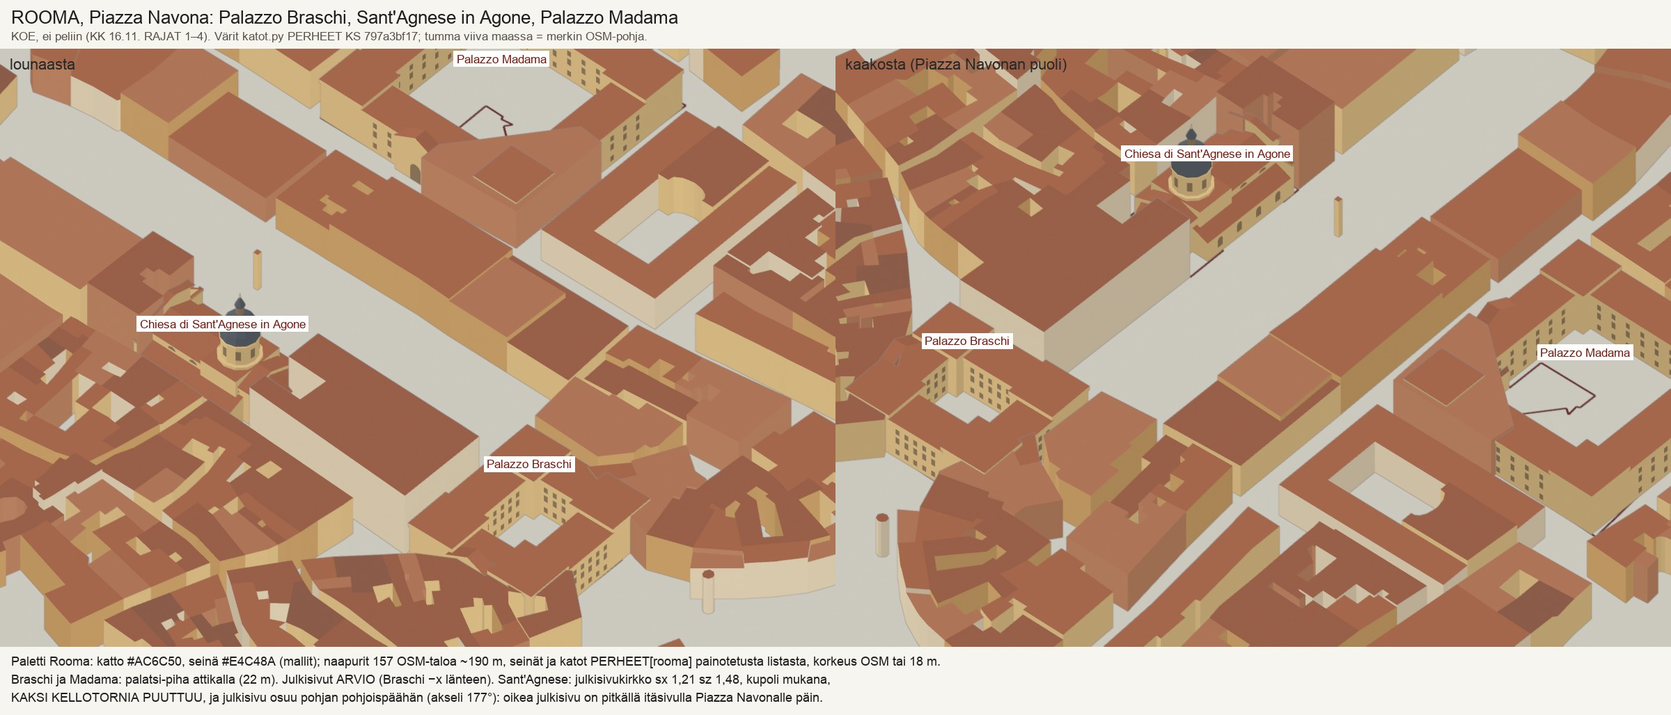
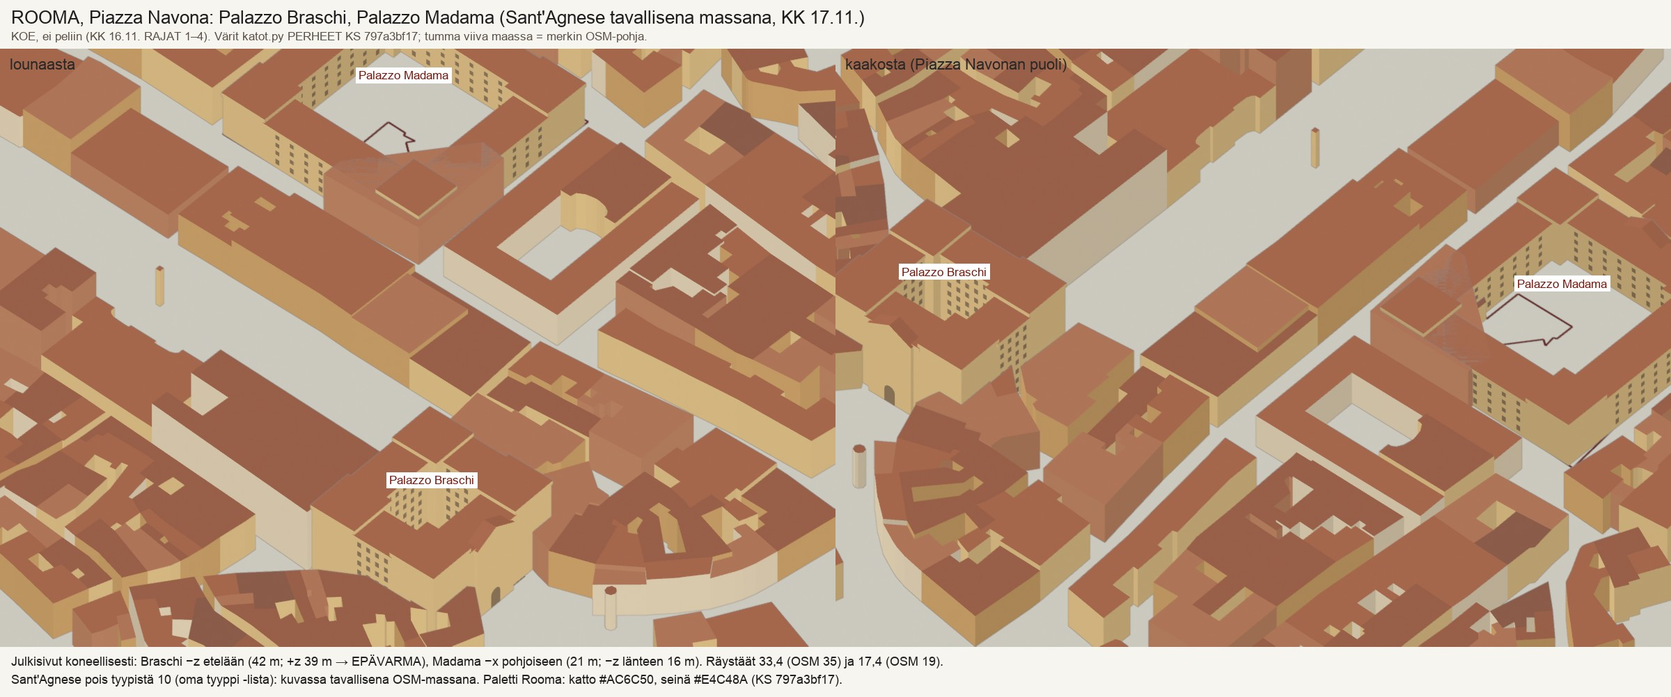
VS: julkisivu koneellisesti, palatsin räystäs OSM:stä, Sant'Agnese oma tyyppi (KOE Rooma/Wien, KK 17.11.; EI JUNAAN)
tyypitys.py: avoimin sivu kadun ylittävillä säteillä (muut.json.gz kadut, vesi esteenä), epävarmat listaan;
palatsin räystäs OSM-korkeudesta, ei naapureiden mediaanin alle (MK01 p3); OMA_TYYPPI: Sant'Agnese, Ambrogio e Carlo.
Tyyppimallit.cs: TyyppiPalatsiPiha raystas-parametri (16 m tavulleen ennallaan). Kuvat Freyung, Sant'Andrea, Navona.

diff --git a/tools/tyyppimallit/tyypitys.py b/tools/tyyppimallit/tyypitys.py
@@ -31,6 +31,11 @@ PALATSI_EI_B = {'sports_centre', 'dormitory', 'stadium'}
 # tyypitetään vain kirkot. Säännön löytämät asemat ja palatsit, jotka eivät ole listalla, ovat "ei sovi". Lista voi myös nostaa ehdokkaaksi rakennuksen,
 # jota sääntö ei löydä (Institut = building=public, Hôtel de Ville = civic). OSM-otteissa ei ole kupoli- eikä hallitietoa. Avain OSM-tunniste.
 # Tila: KUPOLIT hyväksytty (KK 23.25); ASEMAT ja PALATSIT EHDOTUS (VS 14.11. klo 23.4x, ehdotus-listat-pariisi.md) → odottaa KK:n hyväksyntää.
+# ODOTTAA OMAA TYYPPIÄ (KK 17.11. kohta 2): siihen asti tavallinen massa (ei_sovi → perustalo).
+OMA_TYYPPI = {
+    'way/52333460': "oma tyyppi: leveä julkisivu pitkällä sivulla + kaksi kellotornia + kupoli (Sant'Agnese in Agone; KK 17.11. kohta 2)",
+    'relation/3078796': 'oma tyyppi: venytys z 2,67 julkisivukirkolle (Santi Ambrogio e Carlo al Corso; KK 17.11. kohta 2)',
+}
 NIMILISTAT = {
     'pariisi': {
         # KUPOLIT (hyväksytty KK 23.25)
@@ -101,9 +106,9 @@ NIMILISTAT = {
         # JULKISIVUKIRKOT (KK 16.11. kohta 1): barokkijulkisivu + kupoli risteyksessä, pitkä laiva. LUONNOS: tunnetut kupolikirkot, Commons-tarkistus ennen vientiä.
         'way/25610962': ('kirkko', 'julkisivu', 'Chiesa del Gesù', {'kupoli': 1, 'koe': True}),
         'way/25625603': ('kirkko', 'julkisivu', "Sant'Andrea della Valle", {'kupoli': 1, 'koe': True}),
-        'way/52333460': ('kirkko', 'julkisivu', "Sant'Agnese in Agone", {'kupoli': 1, 'koe': True}),   # julkisivun kaksi kellotornia puuttuvat mallista
+        'way/52333460': ('kirkko', 'julkisivu', "Sant'Agnese in Agone", {'ei_sovi': OMA_TYYPPI['way/52333460']}),
         'way/117744827': ('kirkko', 'julkisivu', 'San Carlo ai Catinari', {'kupoli': 1, 'koe': True}),
-        'relation/3078796': ('kirkko', 'julkisivu', 'Santi Ambrogio e Carlo al Corso', {'kupoli': 1, 'koe': True}),
+        'relation/3078796': ('kirkko', 'julkisivu', 'Santi Ambrogio e Carlo al Corso', {'ei_sovi': OMA_TYYPPI['relation/3078796']}),
         'way/127942183': ('kirkko', 'julkisivu', 'San Giovanni dei Fiorentini', {'kupoli': 1, 'koe': True}),
         'way/29181216': ('kirkko', 'julkisivu', 'Chiesa Nuova (Santa Maria in Vallicella)', {'kupoli': 1, 'koe': True}),
         'way/50884075': ('kirkko', 'julkisivu', 'Santa Maria della Pace', {'kupoli': 1, 'koe': True}),
@@ -326,6 +331,130 @@ def sivun_suunta(atsi, sivu):
     return (atsi + {'+x': 0, '-x': 180, '+z': -90, '-z': 90}[sivu]) % 360
 
 
+# JULKISIVUN SUUNTA KONEELLISESTI (KK 17.11. kohta 3; KOE Rooma ja Wien): pääjulkisivu on se mallin sivu, jonka edessä on eniten avointa tilaa
+# (aukio tai levein katu). Avoimuus = sivun keskimmäiseltä 80 %:lta 4 m:n välein ulos ammuttujen säteiden vapaa matka muihin OSM-taloihin
+# (katkaistu AVOIN['max'] m:iin), keskiarvo. Epävarma: toiseksi avoimin ≥ AVOIN['tasan'] × avoimin, tai avoimin alle AVOIN['ahdas'] m.
+JULKISIVU_KONEELLA = {'rooma', 'wien'}
+AVOIN = {'max': 120.0, 'vali': 4.0, 'tasan': 0.8, 'ahdas': 15.0, 'pitka_sivu': 1.25, 'katu_max': 60.0}
+# Säde lasketaan vain, jos se ylittää yleisen kadun tai aukion ennen estettä (muut.json.gz: highway KADUT, nimetty service/footway, area=yes,
+# place=square, area:highway); vesi on este (joki ei ole julkisivun puoli: San Giovanni dei Fiorentini). Puutarha ei ole este, mutta sen puolelta
+# ei yleensä ylitetä katua (Palazzo Corsini).
+KADUT = {'primary', 'secondary', 'tertiary', 'residential', 'unclassified', 'living_street', 'pedestrian', 'trunk',
+         'primary_link', 'secondary_link', 'tertiary_link', 'trunk_link'}
+
+
+def avoimuuden_aineisto(ote, P):
+    """(kadut [(oid, [renkaat/linjat])], esteet [(oid, renkaat)]) ote/muut.json.gz:stä paikallisiin metreihin."""
+    m = json.load(gzip.open(os.path.join(ote, 'muut.json.gz')))
+    kadut, esteet = [], []
+    for w in m['ways'] + m.get('rel', []):
+        t = w.get('t', {})
+        vesi = t.get('natural') == 'water' or t.get('waterway') == 'riverbank'
+        katu = (t.get('highway') in KADUT or (t.get('highway') in ('service', 'footway') and ('name' in t or t.get('area') == 'yes'))
+                or t.get('place') == 'square' or 'area:highway' in t)
+        if not (vesi or katu): continue
+        rr = [w['p']] if 'p' in w else (renkaat_rel(w) if vesi else [j['p'] for j in w.get('j', []) if j.get('p')])
+        if vesi and katu: katu = False
+        q = [[P(la, lo) for la, lo in r_] for r_ in rr if len(r_) >= 2]
+        if not q: continue
+        (esteet if vesi else kadut).append(('~' + w['osm'], q))
+    return kadut, esteet
+
+
+class Esteet:
+    """Muiden talojen särmät 25 m:n ruudukossa (säteiden osumat)."""
+    def __init__(self, talot, ruutu=25.0, korkeudet=None):
+        self.r = ruutu; self.ruudut = {}; self.korkeudet = korkeudet or {}
+        for oid, renkaat in talot:
+            for q in renkaat:
+                for i in range(len(q) - 1):
+                    (ax, ay), (bx, by) = q[i], q[i + 1]
+                    for gx in range(int(math.floor(min(ax, bx) / ruutu)), int(math.floor(max(ax, bx) / ruutu)) + 1):
+                        for gy in range(int(math.floor(min(ay, by) / ruutu)), int(math.floor(max(ay, by) / ruutu)) + 1):
+                            self.ruudut.setdefault((gx, gy), []).append((oid, ax, ay, bx, by))
+
+    def lahella(self, x, y, sade, oma):
+        g0x, g1x = int(math.floor((x - sade) / self.r)), int(math.floor((x + sade) / self.r))
+        g0y, g1y = int(math.floor((y - sade) / self.r)), int(math.floor((y + sade) / self.r))
+        nahty = set(); ulos = []
+        for gx in range(g0x, g1x + 1):
+            for gy in range(g0y, g1y + 1):
+                for e in self.ruudut.get((gx, gy), ()):
+                    if e[0] != oma and id(e) not in nahty: nahty.add(id(e)); ulos.append(e[1:])
+        return ulos
+
+
+    def naapurikorkeudet(self, x, y, sade, oma):
+        """Korkeustagilliset talot, joiden jokin särmän pää on säteellä."""
+        g0x, g1x = int(math.floor((x - sade) / self.r)), int(math.floor((x + sade) / self.r))
+        g0y, g1y = int(math.floor((y - sade) / self.r)), int(math.floor((y + sade) / self.r))
+        oidit = set()
+        for gx in range(g0x, g1x + 1):
+            for gy in range(g0y, g1y + 1):
+                for o, ax, ay, bx, by in self.ruudut.get((gx, gy), ()):
+                    if o != oma and o in self.korkeudet and min(math.hypot(ax - x, ay - y), math.hypot(bx - x, by - y)) <= sade: oidit.add(o)
+        return sorted(self.korkeudet[o] for o in oidit)
+
+
+# PALATSIN KORKEUS (KK 17.11. kohta 1; KOE): räystäs OSM-korkeudesta (tagi), malli ei jää lähinaapureiden (pohjan puolikas + 20 m) tagillisten
+# korkeuksien mediaanin alle. Korkeus = attikan yläpinta (räystäs + 1,6) tai mansardin harja (räystäs + 7). Ilman lukuja oletus 16 m.
+PALATSI_KORKEUS = {'naapurisade_lisa': 20.0, 'attika': 1.6, 'mansardi': 7.0, 'min': 8.0, 'max': 45.0}
+
+
+def palatsin_raystas(h, naapurit, katto):
+    import statistics
+    med = statistics.median(naapurit) if naapurit else None
+    lisa = PALATSI_KORKEUS['attika' if katto == 'attika' else 'mansardi']
+    ry = h - lisa if h else 16.0   # tagi = mallin korkeus; ilman tagia oletusräystäs 16 m
+    if med: ry = max(ry, med - lisa)   # ei naapureiden mediaanin alle
+    return round(min(PALATSI_KORKEUS['max'], max(PALATSI_KORKEUS['min'], ry)), 1), med
+
+
+def sade_matka(px, py, dx, dy, sarmat, maks):
+    """Säteen (px, py) + t (dx, dy) ensimmäinen osuma särmiin (t ≥ 0), enintään maks."""
+    paras = maks
+    for ax, ay, bx, by in sarmat:
+        ex, ey = bx - ax, by - ay
+        den = dx * ey - dy * ex
+        if abs(den) < 1e-9: continue
+        wx, wy = ax - px, ay - py
+        t = (wx * ey - wy * ex) / den; u = (wx * dy - wy * dx) / den
+        if 0.0 <= t < paras and 0.0 <= u <= 1.0: paras = t
+    return paras
+
+
+def sivujen_avoimuus(c, atsi, pit, lev, esteet, oma, kadut=None):
+    """{sivu: keskimääräinen vapaa matka m} mallin sivuille ±x ±z (suorakaide c, atsi, pit × lev). kadut = Esteet katuviivoista: säde lasketaan
+    vain, jos se ylittää kadun ennen estettä (enintään katu_max m), muuten 0."""
+    sarmat = esteet.lahella(c[0], c[1], max(pit, lev) / 2 + AVOIN['max'] + 5, oma)
+    katusarmat = kadut.lahella(c[0], c[1], max(pit, lev) / 2 + AVOIN['katu_max'] + 5, None) if kadut else None
+    tulos = {}
+    for sivu in ('+x', '-x', '+z', '-z'):
+        d = math.radians(sivun_suunta(atsi, sivu)); dx, dy = math.sin(d), math.cos(d)
+        pituus = lev if 'x' in sivu else pit
+        n = max(3, int(0.8 * pituus / AVOIN['vali']))
+        mat = []
+        for i in range(n):
+            s_ = (-0.4 + 0.8 * (i + 0.5) / n) * pituus
+            lx, lz = ((pit / 2 if sivu == '+x' else -pit / 2), s_) if 'x' in sivu else (s_, (lev / 2 if sivu == '+z' else -lev / 2))
+            ex, ey = mallista_maailmaan(atsi, lx, lz)
+            t_ = sade_matka(c[0] + ex, c[1] + ey, dx, dy, sarmat, AVOIN['max'])
+            if katusarmat is not None and sade_matka(c[0] + ex, c[1] + ey, dx, dy, katusarmat, min(t_, AVOIN['katu_max'])) >= min(t_, AVOIN['katu_max']): t_ = 0.0
+            mat.append(t_)
+        tulos[sivu] = round(sum(mat) / len(mat), 1)
+    return tulos
+
+
+def julkisivu_koneella(avo, sallitut=('+x', '-x', '+z', '-z')):
+    """(sivu, epävarmuuden syy tai None) avoimuuksista; sallitut = sivut, joille malli osaa julkisivun."""
+    jarj = sorted(sallitut, key=lambda s_: -avo[s_])
+    paras, toinen = jarj[0], jarj[1]
+    syy = None
+    if avo[paras] < AVOIN['ahdas']: syy = f'kaikki sivut ahtaita (avoimin {paras} {avo[paras]:.0f} m)'
+    elif avo[toinen] >= AVOIN['tasan'] * avo[paras]: syy = f'kaksi lähes yhtä avointa ({paras} {avo[paras]:.0f} m, {toinen} {avo[toinen]:.0f} m)'
+    return paras, syy
+
+
 def palatsin_sovitus(ulko, sisa, atsi0, julkisivu):
     """Palatsin suorakaide, piha, avoin sivu ja pääjulkisivun sivu (KK 14.11. 23.40 D). ulko/sisa = OSM-ulko- ja sisärenkaat paikallisissa metreissä.
     1) Akseli seinien vallitsevasta suunnasta (särmien pituuspainotettu suunta mod 90°), ei pienimmästä suorakaiteesta: vino kulma (Élysée) ei käännä mallia.
@@ -522,6 +651,17 @@ def main(a):
     koodiosumat = []   # koodimallit, jotka eivät ole IKONIT-listalla mutta leikkaavat ehdokkaan (raportoidaan, ei ohiteta)
     lista = NIMILISTAT.get(kaupunki, {})
     merkit, poistot, ohit = [], [], []
+    esteet = kadut = None
+    if kaupunki in JULKISIVU_KONEELLA:
+        talot, korkeudet = [], {}
+        for w_ in d['ways'] + d.get('rel', []):
+            if not w_.get('t', {}).get('building'): continue
+            rr = [w_['p']] if 'p' in w_ else renkaat_rel(w_)
+            if rr: talot.append((w_['osm'], [[P(la, lo) for la, lo in q] for q in rr]))
+            hk = korkeus(w_['t'])[0]
+            if hk and hk >= 6.0: korkeudet[w_['osm']] = hk   # alle 6 m (muurit, kioskit) ei naapurikorkeudeksi
+        kadut_, vesi_ = avoimuuden_aineisto(ote, P)
+        esteet = Esteet(talot + vesi_, korkeudet=korkeudet); kadut = Esteet(kadut_)
     for w in d['ways'] + d.get('rel', []):
         t = w.get('t', {})
         if not t.get('building'): continue
@@ -579,6 +719,15 @@ def main(a):
             sisat = [[P(la, lo) for la, lo in r] for r in renkaat_sisa(w)] if 'j' in w else []
             pp, syy_p, (c, atsi, pit, lev) = palatsin_sovitus(qs, sisat, atsi, parametrit.get('julkisivu'))
             parametrit['julkisivu_suunta'] = parametrit.pop('julkisivu', None); parametrit.update(pp)
+            if esteet is not None:   # KK 17.11. kohta 3: julkisivu koneellisesti, ei arviota
+                avo = sivujen_avoimuus(c, atsi, pit, lev, esteet, oid, kadut)
+                sivu, epa = julkisivu_koneella(avo)
+                parametrit['julkisivu_kasi'] = pp['julkisivu']; parametrit['julkisivu'] = sivu
+                parametrit['avoimuus'] = avo; parametrit['julkisivu_epavarma'] = epa; parametrit.pop('arvio', None)
+                ry, med = palatsin_raystas(h, esteet.naapurikorkeudet(c[0], c[1], max(pit, lev) / 2 + PALATSI_KORKEUS['naapurisade_lisa'], oid), parametrit.get('katto'))
+                parametrit['raystas'] = ry; parametrit['naapurit_mediaani'] = med
+                if parametrit.get('avoin_sivu') and parametrit['avoin_sivu'] != sivu:
+                    parametrit['huom'] = f"avoin sivu {parametrit['avoin_sivu']} ≠ julkisivu {sivu}"
             if syy is None and syy_p: syy = syy_p
         if tyyppi == 'asema' and tyyppi_koko_ok(tyyppi, koko):
             if 'halleja' not in parametrit: parametrit['halleja'] = asema_hallit(lev)
@@ -627,6 +776,16 @@ def main(a):
                 syy = f"venytys (x {sx:.2f}, z {sz:.2f}; raja {SOVITUS['venytys_min']}–{vmax})"
         if tyyppi == 'kirkko' and syy is None and pit < SOVITUS['kirkko_min_pituus'] and not saanto.startswith(('nimilista', 'käsikorjaus')):
             syy = f"alle {SOVITUS['kirkko_min_pituus']:.0f} m (pituus {pit:.1f})"
+        if esteet is not None and (tyyppi, koko) == ('kirkko', 'julkisivu') and syy is None:
+            # Julkisivukirkko (KK 17.11. kohta 3): julkisivu kapeaan päähän (malli osaa vain sen); avoimempi pää. Jos pitkä sivu on selvästi avoimin,
+            # julkisivu on todennäköisesti pitkällä sivulla (Sant'Agnese) → epävarma KK:lle.
+            avo = sivujen_avoimuus(c, atsi, pit, lev, esteet, oid, kadut)
+            paa, epa = julkisivu_koneella(avo, ('+x', '-x'))
+            pitka = max(('+z', '-z'), key=lambda s_: avo[s_])
+            if avo[pitka] > AVOIN['pitka_sivu'] * avo[paa]: epa = f'pitkä sivu {pitka} avoimin ({avo[pitka]:.0f} m > pää {avo[paa]:.0f} m)' + (f'; {epa}' if epa else '')
+            ux_, uy_ = math.sin(math.radians(atsi)), math.cos(math.radians(atsi))
+            lansi = (ux_, uy_) if paa == '+x' else (-ux_, -uy_)   # lansipaa = julkisivun pää (vie.akseli kääntää sen −x:ksi)
+            parametrit['avoimuus'] = avo; parametrit['julkisivu_paa'] = paa; parametrit['julkisivu_epavarma'] = epa
         la_c = meta['lat'] + c[1] / 111320.0; lo_c = meta['lon'] + c[0] / (111320.0 * math.cos(math.radians(meta['lat'])))
         merkit.append({
             'osm': oid, 'tyyppi': tyyppi, 'koko': koko, 'saanto': saanto, 'nimi': nimi, 'wikidata': t.get('wikidata'),

diff --git a/tools/tyyppimallit/oma/Tyyppimallit.cs b/tools/tyyppimallit/oma/Tyyppimallit.cs
@@ -694,13 +694,13 @@ namespace Matkakirja
             return r.Valmis();
         }
 
-        public static Verkko TyyppiPalatsiPiha(float pituus, float leveys, string julkisivu, string avoin, float siipi = 16f, string katto = "mansardi", int seina = 0)
+        public static Verkko TyyppiPalatsiPiha(float pituus, float leveys, string julkisivu, string avoin, float siipi = 16f, string katto = "mansardi", int seina = 0, float raystas = 16f)
         {
             int n = julkisivu == "+x" ? 1 : julkisivu == "-z" ? 2 : julkisivu == "-x" ? 3 : 0;
             string Takaisin(string s) => s == "+x" ? "+z" : s == "-z" ? "+x" : s == "-x" ? "-z" : s == "+z" ? "-x" : s;   // kierron käänteinen
             string a = avoin ?? "";
             for (int i = 0; i < n; i++) a = Takaisin(a);
-            var v = (n % 2 == 1) ? TyyppiPalatsiPiha(leveys, pituus, siipi, a, katto, seina) : TyyppiPalatsiPiha(pituus, leveys, siipi, a, katto, seina);
+            var v = (n % 2 == 1) ? TyyppiPalatsiPiha(leveys, pituus, siipi, a, katto, seina, raystas) : TyyppiPalatsiPiha(pituus, leveys, siipi, a, katto, seina, raystas);
             return n == 0 ? v : TyKierra(v, n);
         }
 
@@ -715,13 +715,14 @@ namespace Matkakirja
         /// <summary>katto "mansardi" (Pariisi) | "attika" (KK 15.11. 01.13: Lontoo ei saa näyttää Pariisilta): attikalla siivet ja paviljongit päättyvät
         /// ulkonevaan räystäslistaan ja kaiteeseen, katto tasainen kaiteen takana. Keskirisaliitin kolmiopääty molemmissa.
         /// seina = seinän sRGB 0xRRGGBB (0 = TyKivi; Lontoo: Portland-kivi 0xE4DCCA, punatiili 0xAC7862).</summary>
-        public static Verkko TyyppiPalatsiPiha(float pituus = 120f, float leveys = 90f, float siipi = 16f, string avoin = "", string katto = "mansardi", int seina = 0)
+        /// raystas = siipien räystäs m (KK 17.11. KOE: MK01 p3 f32, 0 = 16 m; korkeus OSM:stä, ei naapureiden mediaanin alle).
+        public static Verkko TyyppiPalatsiPiha(float pituus = 120f, float leveys = 90f, float siipi = 16f, string avoin = "", string katto = "mansardi", int seina = 0, float raystas = 16f)
         {
             var r = TyRakentaja();
             var kivi = seina > 0 ? Vari.H(seina) : TyKivi;   // seinä rivikohtaisesti (KK 15.11. 01.24; KS:n paletti), 0 = kaupungin seinä (paletti) tai oletuskivi
             var aukko = seina > 0 ? TyAukkoSeinasta(kivi) : TyAukko;   // ikkuna talojen tapaan seinästä (KK 09.00 b)
             bool attika = katto == "attika";
-            float x0 = -pituus * 0.5f, x1 = pituus * 0.5f, z0 = -leveys * 0.5f, z1 = leveys * 0.5f, y = 16f, pv = siipi + 4f;
+            float x0 = -pituus * 0.5f, x1 = pituus * 0.5f, z0 = -leveys * 0.5f, z1 = leveys * 0.5f, y = raystas, pv = siipi + 4f;
             bool piha = Math.Min(pituus, leveys) >= 2.6f * siipi;
             (float, float, float)[] Mansardi(float sy, float d) => new[] { (0f, 0f, sy), (1.6f, 1.6f, sy + 5f), (Math.Min(d * 0.32f, 6f), d * 0.32f, sy + 7f) };
             void Siipi(float a0, float a1, float b0, float b1, bool pitkinX)
@@ -771,9 +772,17 @@ namespace Matkakirja
             float iv = Math.Max(4.2f, julkisivu / 60f);
             foreach (var (ax, az, bx, bz) in seinat)
             {
-                TyIkkunat(r, ax, az, bx, bz, iv, 1.8f, 7.5f, 10.5f, false, aukko);
-                TyIkkunat(r, ax, az, bx, bz, iv, 1.8f, 12f, 14.5f, false, aukko);
+                if (Math.Abs(y - 16f) < 0.01f)   // ennallaan tavulleen
+                {
+                    TyIkkunat(r, ax, az, bx, bz, iv, 1.8f, 7.5f, 10.5f, false, aukko);
+                    TyIkkunat(r, ax, az, bx, bz, iv, 1.8f, 12f, 14.5f, false, aukko);
+                    TyIkkunat(r, ax, az, bx, bz, iv, 1.8f, 2f, 4.5f, false, aukko);
+                    continue;
+                }
                 TyIkkunat(r, ax, az, bx, bz, iv, 1.8f, 2f, 4.5f, false, aukko);
+                // Muu räystäs (KK 17.11. KOE): pohjakerros kuten ennen, yläkerrokset tasajaolla ~4,6 m (ikkuna 0,3–0,8 kerroksesta).
+                int nk = Math.Max(1, (int)Math.Round((y - 5.5f) / 4.6f)); float kh = (y - 5.5f) / nk;
+                for (int k = 0; k < nk; k++) TyIkkunat(r, ax, az, bx, bz, iv, 1.8f, 5.5f + k * kh + 0.3f * kh, 5.5f + k * kh + 0.8f * kh, false, aukko);
             }
             // Keskirisaliitti pääjulkisivulla (+z) ja porttiholvi; jos +z on avoin (U-palatsin kunniapiha), risaliitti on pihan puolella päärakennuksessa (−z-siipi).
             if (avoin == "+z") z1 = z0 + siipi;
@@ -865,7 +874,7 @@ namespace Matkakirja
                 case 3: return TyyppiKirkkoSuuri();
                 case 4: return TyyppiKupolikirkko(a != 0);
                 case 5: return TyyppiPylvastemppeli(p0, p1, a > 0 ? a : 8, b != 0, c == 1);
-                case 6: return TyyppiPalatsiPiha(p0, p1, a > 0 ? Sivu(a) : "+z", Sivu(b), 16f, c == 1 ? "attika" : "mansardi", p2 > 0f && p2 <= 0xFFFFFF ? (int)p2 : 0);
+                case 6: { float ry = BitConverter.Int32BitsToSingle((int)p3Bitit); return TyyppiPalatsiPiha(p0, p1, a > 0 ? Sivu(a) : "+z", Sivu(b), 16f, c == 1 ? "attika" : "mansardi", p2 > 0f && p2 <= 0xFFFFFF ? (int)p2 : 0, ry >= 8f && ry <= 45f ? ry : 16f); }
                 case 7: return MalliAsema(a, b, c, p0, p1, p2 > 0f && p2 <= 0xFFFFFF ? (int)p2 : 0, p3Bitit, varattu, jatko);
                 case 8: return TyyppiKirkkoLevea(paikka[Math.Min(a, 1)], Math.Max(1, b), huippu[Math.Min(c, 2)]);
                 case 9: return TyyppiKirkkoBasilika(paikka[Math.Min(a, 1)], Math.Max(1, b), huippu[Math.Min(c, 2)]);

diff --git a/tools/tyyppimallit/kortteli-kuva.py b/tools/tyyppimallit/kortteli-kuva.py
@@ -10,7 +10,7 @@ Naapurit: otteet-63/<k>/osm.json.gz building-tagilliset ~R m säteellä, ei merk
 tai 18 m; seinä ja tasakatto katot.py PERHEET[k] painotetusta listasta (osm-id:n tiivisteellä, toistettava). Väriähde VS_KATOT_KANSIO (oletus KS 797a3bf17).
 Merkin OSM-pohja piirretään maahan tummana viivana (vertailu: miten malli osuu pohjaan).
 """
-import sys, os, json, math, gzip, hashlib, subprocess
+import sys, os, json, math, gzip, hashlib, subprocess, struct
 
 TY = os.path.dirname(os.path.abspath(__file__))
 OTTEET = '/Users/Shared/Claude/proto-3d/_tyo/karttaseppa/tyokalu-1/otteet-63'
@@ -22,12 +22,15 @@ _l = (-0.5, -0.45, 0.75); _n = math.sqrt(sum(c * c for c in _l)); VALO = tuple(c
 
 # Näkymä: (nimi, atsimuutti mistä kamera katsoo, korotus °, ortokoko m, keskipisteen siirto (itä, pohjoinen) m)
 KORTTELIT = {
-    'rooma-navona': dict(kaupunki='rooma', otsikko='ROOMA, Piazza Navona: Palazzo Braschi, Sant\'Agnese in Agone, Palazzo Madama',
-                         merkit=['relation/1709796', 'way/52333460', 'relation/76432'], sade=190,
+    'rooma-navona': dict(kaupunki='rooma', otsikko="ROOMA, Piazza Navona: Palazzo Braschi, Palazzo Madama (Sant'Agnese tavallisena massana, KK 17.11.)",
+                         merkit=['relation/1709796', 'relation/76432'], sade=190,
                          nakymat=[('lounaasta', 225, 45, 300, (0, 0)), ('kaakosta (Piazza Navonan puoli)', 135, 45, 300, (0, 0))]),
     'wien-freyung': dict(kaupunki='wien', otsikko='WIEN, Freyung: Palais Kinsky, Palais Harrach',
                          merkit=['relation/2458835', 'relation/1527363'], sade=170,
                          nakymat=[('pohjoisesta (Freyungin puoli)', 15, 45, 210, (0, 0)), ('lounaasta', 225, 45, 210, (0, 0))]),
+    'rooma-santandrea': dict(kaupunki='rooma', otsikko="ROOMA, Corso Vittorio Emanuele: Sant'Andrea della Valle (julkisivukirkko, julkisivu koneellisesti)",
+                             merkit=['way/25625603'], sade=170,
+                             nakymat=[('pohjoisesta (julkisivun puoli)', 345, 40, 200, (0, 0)), ('lounaasta', 225, 45, 200, (0, 0))]),
     'gesu': dict(kaupunki='rooma', otsikko='JULKISIVUKIRKKO (tyyppi 10) Rooman väreillä: Chiesa del Gesù (sx 1,63, sz 1,62)',
                  merkit=['way/25610962'], sade=0, yksin=True,
                  nakymat=[('edestä', 'julkisivu', 6, 150, (0, 0)), ('45°', 'julkisivu+45', 32, 150, (0, 0))]),
@@ -115,6 +118,7 @@ def valmistele(nimi, ulos):
         e = dict(env, VS_VENYTYS=f'{sx},{sz}') if inst else dict(env)
         tunnus = m['osm'].replace('/', '-')
         arg = [str(r[0]), str(r[1]), str(r[2]), str(r[3]), repr(r[4]), repr(r[5]), repr(r[6])]
+        if len(r) == 8 and isinstance(r[7], float) and r[7]: arg.append(str(struct.unpack('<I', struct.pack('<f', r[7]))[0]))   # palatsin räystäs (p3)
         tulos = subprocess.run([DN, os.path.join(TY, 'rakennus', 'Luonnos.dll'), os.path.join(ulos, 'obj'), tunnus, 'malli'] + arg,
                                env=e, capture_output=True, text=True, check=True).stdout.strip()
         x, y = P(*m['keski']); ak = V.akseli(m)
@@ -122,7 +126,7 @@ def valmistele(nimi, ulos):
         pohja = [tuple(p) for p in m['pohja']]
         merkkipohjat.append((m['nimi'], [(x + px, y + py) for px, py in pohja]))
         pohjat += viiva([(x + px, y + py) for px, py in pohja + pohja[:1]])
-        tiedot.append(dict(osm=m['osm'], nimi=m['nimi'], tyyppi=f"{m['tyyppi']}-{m['koko']}", rivi=list(r[:7]), sx=sx, sz=sz, akseli=round(ak, 1),
+        tiedot.append(dict(osm=m['osm'], nimi=m['nimi'], tyyppi=f"{m['tyyppi']}-{m['koko']}", rivi=list(r[:8]), sx=sx, sz=sz, akseli=round(ak, 1),
                            parametrit=m['parametrit'], luonnos=tulos))
     naapurit = 0
     if not K.get('yksin'):

diff --git a/tools/tyyppimallit/vie.py b/tools/tyyppimallit/vie.py
@@ -13,6 +13,7 @@ TIEDOSTO MK01 (little-endian; luku ja testit: pelin Ydin/Elava/MerkkiTiedosto.cs
             3 kirkko-suuri, 4 kupolikirkko (a = pylväspääty 0/1), 5 pylvästemppeli (p0 pituus, p1 leveys, a = päädyn pylväät, b = harja 0/1, c = portiikki vain päädyssä 0/1),
             6 palatsi-piha (p0 pituus, p1 leveys, a = julkisivun sivu, b = avoin sivu, c = katto 0 mansardi / 1 attika; sivu 0 ei, 1 +x, 2 −x, 3 +z, 4 −z),
                           p2 = seinän sRGB 0xRRGGBB f32-kokonaislukuna (0 = oletuskivi; parametri 'seina' SEINA-taulusta)
+                          p3 = räystäs m f32 (KK 17.11. KOE Rooma/Wien: OSM-korkeus, ei naapureiden mediaanin alle; 0 = 16 m kuten ennen)
             7 asema (p0 pituus L, p1 leveys W, p2 = kaupungin kattoväri sRGB 0xRRGGBB; kattovari(): KK 15.11. 05.22). Hallit pohjan sisään
                     (KK 15.11. 06.20 päätös B; pudonneet kaistat puolikkaina KK 07.25; hallit.py): MUOTO 2 = a = kaistoja (bitit 0–2) | julkisivukaistat << 3;
                     b | c << 8 = kaistakartta (bitti 15 = 1; kaistan k tila bitit 3k…: 0 ei, 1 kokonainen, 2 / 3 vain 1. / 2. puolikas, 4 molemmat);
@@ -165,7 +166,7 @@ def _malli(m):
         attika = p.get('katto') == 'attika'
         return (ty, 8 if p.get('portiikki') or not attika else 10, 0 if attika else 1, 1 if p.get('portiikki') else 0, float(m['pituus']), float(m['leveys']), 0.0, 0.0)
     if t == 'palatsi':
-        return (ty, SIVU[p.get('julkisivu') or '+z'], SIVU[p.get('avoin_sivu') or ''], 1 if p.get('katto') == 'attika' else 0, float(m['pituus']), float(m['leveys']), float(SEINA[p.get('seina')]), 0.0)
+        return (ty, SIVU[p.get('julkisivu') or '+z'], SIVU[p.get('avoin_sivu') or ''], 1 if p.get('katto') == 'attika' else 0, float(m['pituus']), float(m['leveys']), float(SEINA[p.get('seina')]), float(p.get('raystas') or 0.0))   # p3 = räystäs m (KK 17.11. KOE; 0 = 16 m)
     if t == 'asema':
         r = m['_hallit']
         return (ty, r['a'], r['b'], r['c'], float(r['pituus']), float(r['leveys']), float(KATTOVARI[0]), struct.pack('<I', r['p3_bitit']), r['varattu'])

diff --git a/tools/tyyppimallit/julkisivu-suunnat.md b/tools/tyyppimallit/julkisivu-suunnat.md
@@ -1,0 +1,54 @@
+# Julkisivun suunta koneellisesti (KK 17.11. kohta 3; KOE Rooma + Wien)
+
+Sääntö: tyypitys.py JULKISIVU_KONEELLA / AVOIN / KADUT. Avoimuus = sivun säteiden keskimääräinen vapaa matka (m) muihin taloihin ja veteen, vain jos säde ylittää kadun tai aukion (≤ 60 m). Epävarma: toinen ≥ 0,8 × paras tai paras < 15 m. Julkisivukirkko: vain päät ±x; pitkä sivu > 1,25 × pää → epävarma.
+
+| kaupunki | osm | nimi | sivu | ilmansuunta | vanha käsiarvio | räystäs | OSM h | naapurimed. | avoimuus | epävarma |
+|---|---|---|---|---|---|---|---|---|---|---|
+| rooma | way/25610962 | Chiesa del Gesù | -x | länsi | - | - | - | - | +x13 -x39 +z8 -z0 |  |
+| rooma | way/25625603 | Basilica di Sant'Andrea della Vall | -x | pohjoinen | - | - | - | - | +x0 -x65 +z20 -z9 |  |
+| rooma | way/29181216 | Chiesa Nuova | -x | etelä | - | - | - | - | +x0 -x58 +z0 -z6 |  |
+| rooma | way/127942183 | Baailica di San Giovanni dei Fiore | -x | lounas | - | - | - | - | +x30 -x32 +z8 -z22 | kaksi lähes yhtä avointa (-x 32 m, +x 30 m) |
+| rooma | way/117744827 | Santi Biagio e Carlo ai Catinari | -x | etelä | - | - | - | - | +x4 -x31 +z6 -z0 |  |
+| rooma | way/50884075 | Chiesa di Santa Maria della Pace | -x | lounas | - | - | - | - | +x2 -x14 +z1 -z0 | kaikki sivut ahtaita (avoimin -x 14 m) |
+| rooma | relation/325549 | Palazzo delle Finanze | -z | kaakko | pohjoinen | 17.4 | 19.0 | 19.0 | +x18 -x36 +z43 -z52 | kaksi lähes yhtä avointa (-z 52 m, +z 43 m) |
+| rooma | relation/325578 | Palazzo di Giustizia | +z | luode | itä | 16.0 | - | - | +x22 -x55 +z120 -z63 |  |
+| rooma | relation/11153 | Palazzo del Viminale | -z | kaakko | länsi | 17.4 | - | 19.0 | +x0 -x0 +z0 -z24 |  |
+| rooma | relation/1707363 | Palazzo Doria Pamphilj | -x | pohjoinen | itä | 17.4 | 19.0 | 15.6 | +x21 -x22 +z10 -z17 | kaksi lähes yhtä avointa (-x 22 m, +x 21 m) |
+| rooma | relation/2766788 | Palazzo Montecitorio | -x | etelä | etelä | 17.4 | - | 19.0 | +x35 -x40 +z6 -z6 | kaksi lähes yhtä avointa (-x 40 m, +x 35 m) |
+| rooma | relation/2766758 | Palazzo Koch | -z | lounas | koillinen | 16.0 | - | 15.6 | +x7 -x26 +z8 -z78 |  |
+| rooma | relation/2716050 | Palazzo Barberini | -x | lounas | länsi | 14.0 | 15.6 | - | +x0 -x20 +z3 -z0 |  |
+| rooma | relation/76432 | Palazzo Madama | -x | pohjoinen | länsi | 17.4 | 19.0 | 19.0 | +x7 -x21 +z13 -z16 |  |
+| rooma | relation/37216 | Palazzo di Propaganda Fide | -x | luode | etelä | 16.0 | - | - | +x2 -x42 +z2 -z15 |  |
+| rooma | relation/1283512 | Palazzo Corsini alla Lungara | +z | koillinen | itä | 16.0 | - | - | +x16 -x0 +z59 -z0 |  |
+| rooma | way/140186882 | Palazzo Venezia | +x | itä | itä | 10.6 | 12.2 | 12.2 | +x78 -x12 +z22 -z58 |  |
+| rooma | relation/22289 | Palazzo Farnese | +x | koillinen | koillinen | 16.0 | - | 15.6 | +x54 -x39 +z8 -z5 |  |
+| rooma | relation/1709797 | Palazzo della Cancelleria | -z | itä | pohjoinen | 16.0 | - | 17.3 | +x7 -x1 +z6 -z26 |  |
+| rooma | relation/2916876 | Palazzo Spada | +z | koillinen | koillinen | 16.0 | - | 12.2 | +x0 -x9 +z11 -z0 | kaikki sivut ahtaita (avoimin +z 11 m) |
+| rooma | relation/537813 | Palazzo Altemps | +x | etelä | etelä | 16.0 | - | 17.3 | +x22 -x2 +z7 -z12 |  |
+| rooma | relation/325553 | Palazzo Chigi | +x | itä | itä | 17.4 | - | 19.0 | +x75 -x1 +z22 -z56 |  |
+| rooma | relation/2737120 | Palazzo della Consulta | -x | luode | länsi | 16.0 | - | - | +x23 -x92 +z57 -z2 |  |
+| rooma | relation/1691910 | Palazzo Senatorio | +x | koillinen | luode | 29.4 | 31.0 | 21.0 | +x76 -x5 +z70 -z5 | kaksi lähes yhtä avointa (+x 76 m, +z 70 m) |
+| rooma | relation/2705998 | Palazzo Massimo alle Terme | +z | koillinen | etelä | 24.2 | 19.0 | 25.8 | +x15 -x89 +z120 -z0 |  |
+| rooma | relation/1709796 | Palazzo Braschi | -z | etelä | länsi | 33.4 | 35.0 | 19.5 | +x2 -x2 +z39 -z42 | kaksi lähes yhtä avointa (-z 42 m, +z 39 m) |
+| rooma | way/23442671 | Villa Medici | +x | koillinen | länsi | 16.0 | - | - | +x89 -x53 +z0 -z0 |  |
+| wien | relation/1441683 | Universität Wien | +x | pohjoinen | itä | 31.4 | 33.0 | 26.2 | +x119 -x114 +z38 -z76 | kaksi lähes yhtä avointa (+x 119 m, -x 114 m) |
+| wien | relation/54286 | Parlament | -z | itä | itä | 27.9 | 15.6 | 29.5 | +x106 -x87 +z40 -z120 | kaksi lähes yhtä avointa (-z 120 m, +x 106 m) |
+| wien | relation/20165 | Kunsthistorisches Museum | -x | lounas | koillinen | 28.4 | 30.0 | 30.0 | +x75 -x86 +z60 -z71 | kaksi lähes yhtä avointa (-x 86 m, +x 75 m) |
+| wien | relation/11187 | Naturhistorisches Museum | +x | koillinen | koillinen | 28.4 | 30.0 | 28.0 | +x120 -x68 +z70 -z36 |  |
+| wien | relation/29871 | Börsegebäude | +x | kaakko | kaakko | 17.4 | 19.0 | - | +x76 -x55 +z30 -z30 |  |
+| wien | relation/65155 | Akademie der bildenden Künste | +z | pohjoinen | koillinen | 28.9 | 30.5 | - | +x26 -x26 +z107 -z68 |  |
+| wien | relation/6528362 | Palais Hansen | +z | luode | koillinen | 28.4 | - | 30.0 | +x16 -x18 +z84 -z14 |  |
+| wien | relation/3934518 | Palais Modena | +x | itä | pohjoinen | 27.4 | 20.0 | 29.0 | +x13 -x0 +z0 -z0 | kaikki sivut ahtaita (avoimin +x 13 m) |
+| wien | relation/2162378 | Palais Rasumofsky | +z | koillinen | länsi | 14.0 | 12.2 | 15.6 | +x0 -x18 +z32 -z11 |  |
+| wien | relation/1534837 | Palais Esterházy | -x | lounas | länsi | 24.6 | 22.5 | 26.25 | +x5 -x7 +z2 -z1 | kaikki sivut ahtaita (avoimin -x 7 m) |
+| wien | relation/57997 | Palais Trautson | +x | itä | itä | 22.9 | 24.5 | 19.0 | +x90 -x12 +z0 -z13 |  |
+| wien | way/158249818 | Palais Liechtenstein (Gartenpalais | +x | itä | länsi | 26.4 | 28.0 | - | +x0 -x0 +z0 -z0 | kaikki sivut ahtaita (avoimin +x 0 m) |
+| wien | relation/150055 | Stadtpalais Liechtenstein | -z | lounas | pohjoinen | 30.4 | 32.0 | 28.75 | +x0 -x19 +z40 -z55 |  |
+| wien | way/96257478 | Palais Auersperg | +x | etelä | itä | 20.4 | 22.0 | 19.0 | +x107 -x10 +z101 -z0 | kaksi lähes yhtä avointa (+x 107 m, +z 101 m) |
+| wien | relation/1527363 | Palais Harrach | +x | koillinen | länsi | 19.9 | 15.5 | 21.5 | +x71 -x8 +z43 -z10 |  |
+| wien | relation/2509778 | Winterpalais | +z | pohjoinen | pohjoinen | 23.6 | 23.5 | 25.25 | +x0 -x0 +z7 -z0 | kaikki sivut ahtaita (avoimin +z 7 m) |
+| wien | relation/2458835 | Palais Kinsky | +x | koillinen | länsi | 28.1 | 27.5 | 29.75 | +x50 -x0 +z0 -z0 |  |
+| wien | way/121542619 | Palais Coburg | +z | luode | pohjoinen | 28.4 | 30.0 | 28.25 | +x5 -x0 +z17 -z0 |  |
+| wien | relation/1541444 | Palais Pallavicini | -z | lounas | länsi | 22.9 | 24.5 | 22.25 | +x0 -x5 +z0 -z69 |  |
+
+Tunnettu virhe säännöllä: Palazzo Madama (todellinen pääjulkisivu länteen Corso del Rinascimentolle, sääntö −x pohjoiseen 21 m vs. −z länteen 16 m).
